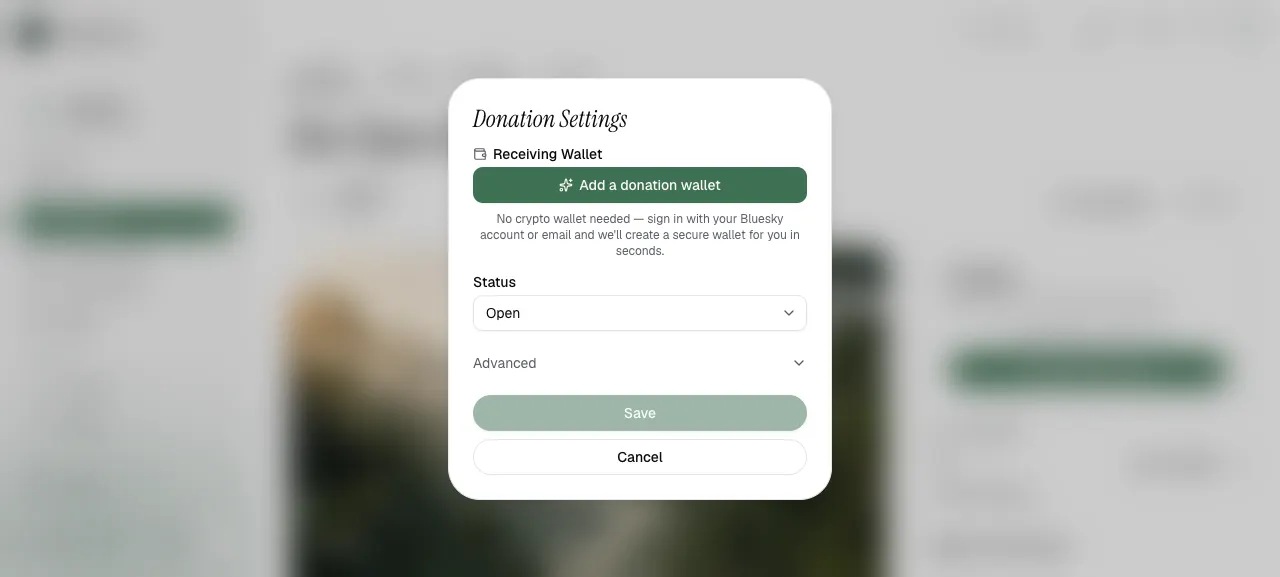
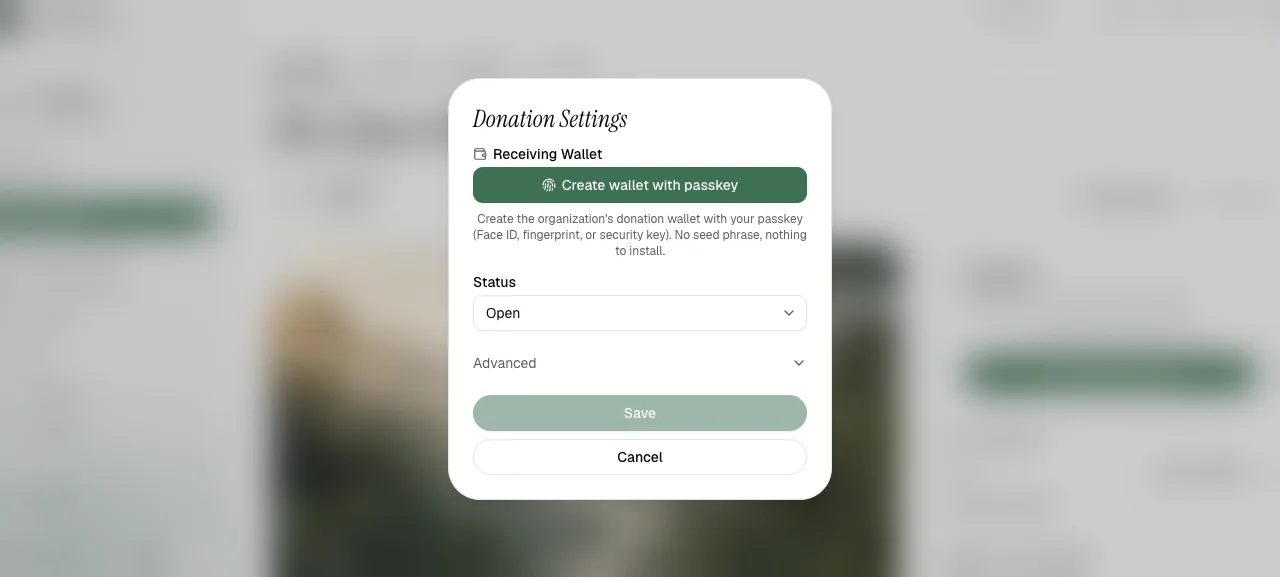
Refresh Tainá donation-setup guide for the passkey wallet flow
The old donation setup (linked EVM wallets via the wallet service) is
gone, but the guide still showed its screenshots. Recaptured the
Donation Settings step with the current 'Create wallet with passkey'
modal, added a final step showing the created organization wallet with
its signer list (translated in all five locales), and removed the two
orphaned link-wallet screenshots.

Also fixes a real modal-layout bug found while capturing: the dialog's
AnimateChangeInHeight wrapper lacked min-w-0, so modal content wider
than the dialog (e.g. the wallet address row) overflowed and got
clipped at the right edge instead of shrinking.

diff --git a/components/ui/modal/context.tsx b/components/ui/modal/context.tsx
@@ -132,7 +132,11 @@ const ModalStack = ({
             }
           }}
         >
-          <AnimateChangeInHeight className="relative">
+          {/* min-w-0 keeps the dialog's grid track at the dialog width: without
+              it, content whose intrinsic width exceeds the dialog (e.g. a row of
+              non-wrapping buttons) widens the track and gets clipped at the
+              dialog's right edge instead of shrinking. */}
+          <AnimateChangeInHeight className="relative min-w-0">
             {children}
           </AnimateChangeInHeight>
         </DialogPlaceholder>

diff --git a/app/_lib/taina-guides.ts b/app/_lib/taina-guides.ts
@@ -66,6 +66,7 @@ export const TAINA_GUIDES: TainaGuide[] = [
       { id: "open", image: img("edit-my-projects") },
       { id: "enable", image: img("wallet-project-support") },
       { id: "addWallet", image: img("wallet-donation-settings") },
+      { id: "passkeys", image: img("wallet-passkeys") },
     ],
     tour: [
       { id: "open", route: "/manage/projects", selector: '[data-taina="open-project"]', advanceOnClick: true },
@@ -154,7 +155,7 @@ export function getTainaGuide(id: string): TainaGuide | undefined {
 export function buildGuideKnowledge(): string {
   return [
     "### Receive donations (set up a wallet)",
-    "Donations are set up on a project, so the user needs at least one project first — if they don't have one yet, tell them to create a project before enabling donations. Donation wallets belong to organizations: the organization owner creates the shared wallet with a passkey (Face ID, fingerprint, or security key — no crypto experience needed), and other members can add their own passkeys so they can approve payments too. Then: My Projects → open your project → 'Enable Donations' in the Support card → 'Create wallet with passkey' → confirm with your passkey. Personal projects cannot add new wallets — the project must belong to an organization.",
+    "Donations are set up on a project, so the user needs at least one project first — if they don't have one yet, tell them to create a project before enabling donations. Donation wallets belong to organizations: the organization owner (or an admin) creates the shared wallet with a passkey (Face ID, fingerprint, or security key — no crypto experience needed), and other members can add their own passkeys so they can approve payments too. Then: My Projects → open your project → 'Enable Donations' in the Support card → 'Create wallet with passkey' → confirm with your passkey. When no donation settings existed yet, creating the wallet saves and opens donations in the same step — no extra Save press. The wallet address can receive donations right away; only the passkeys on its list can ever spend from it. Personal projects cannot add new wallets — the project must belong to an organization.",
     "### Create a project",
     "Sidebar 'Create a Project' (or My Projects → 'Add project') → wizard: name + one-line summary → focus areas → dates (ongoing is fine) → story → people & groups + places → photo → review → Create project.",
     "### Edit a project",